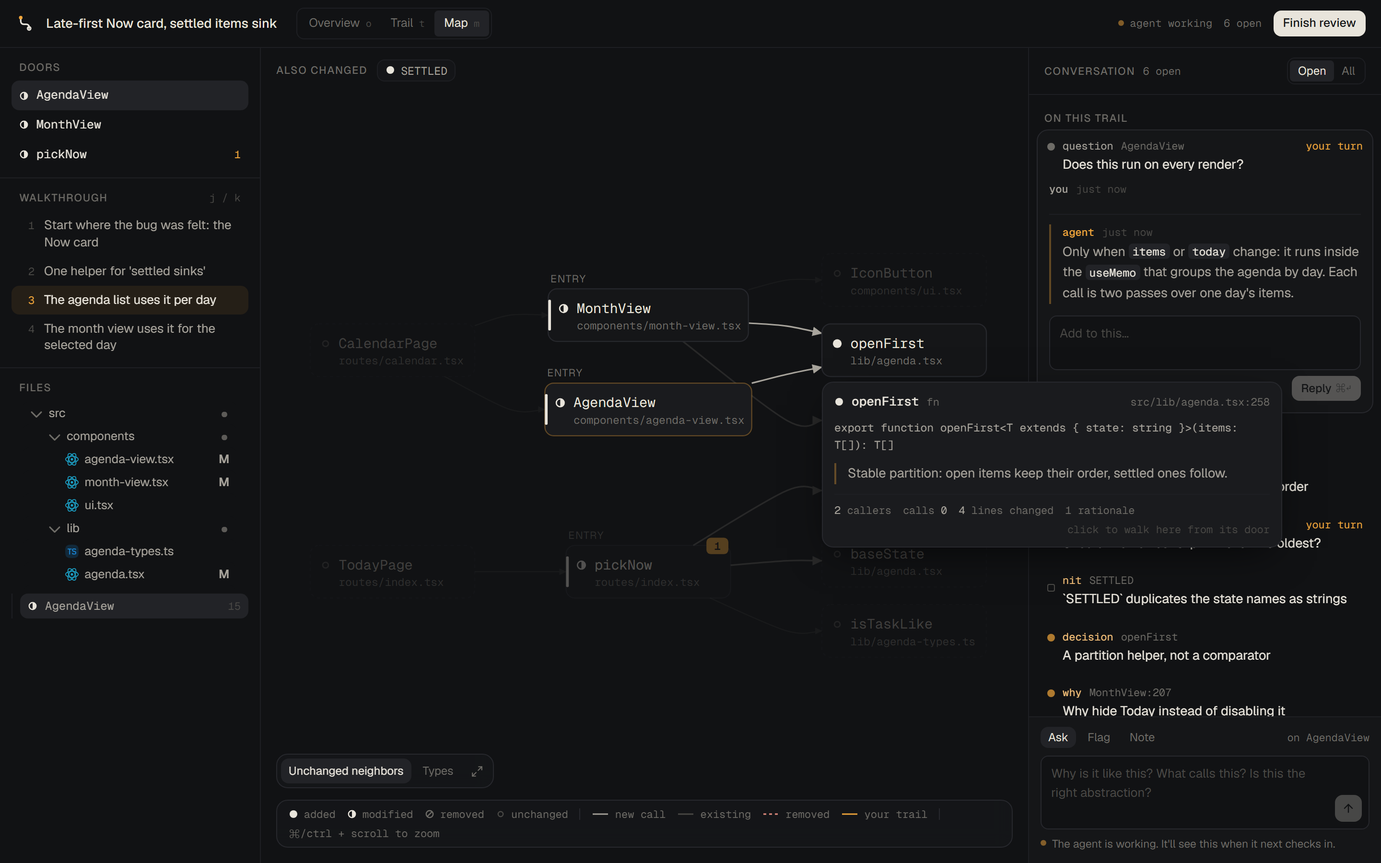
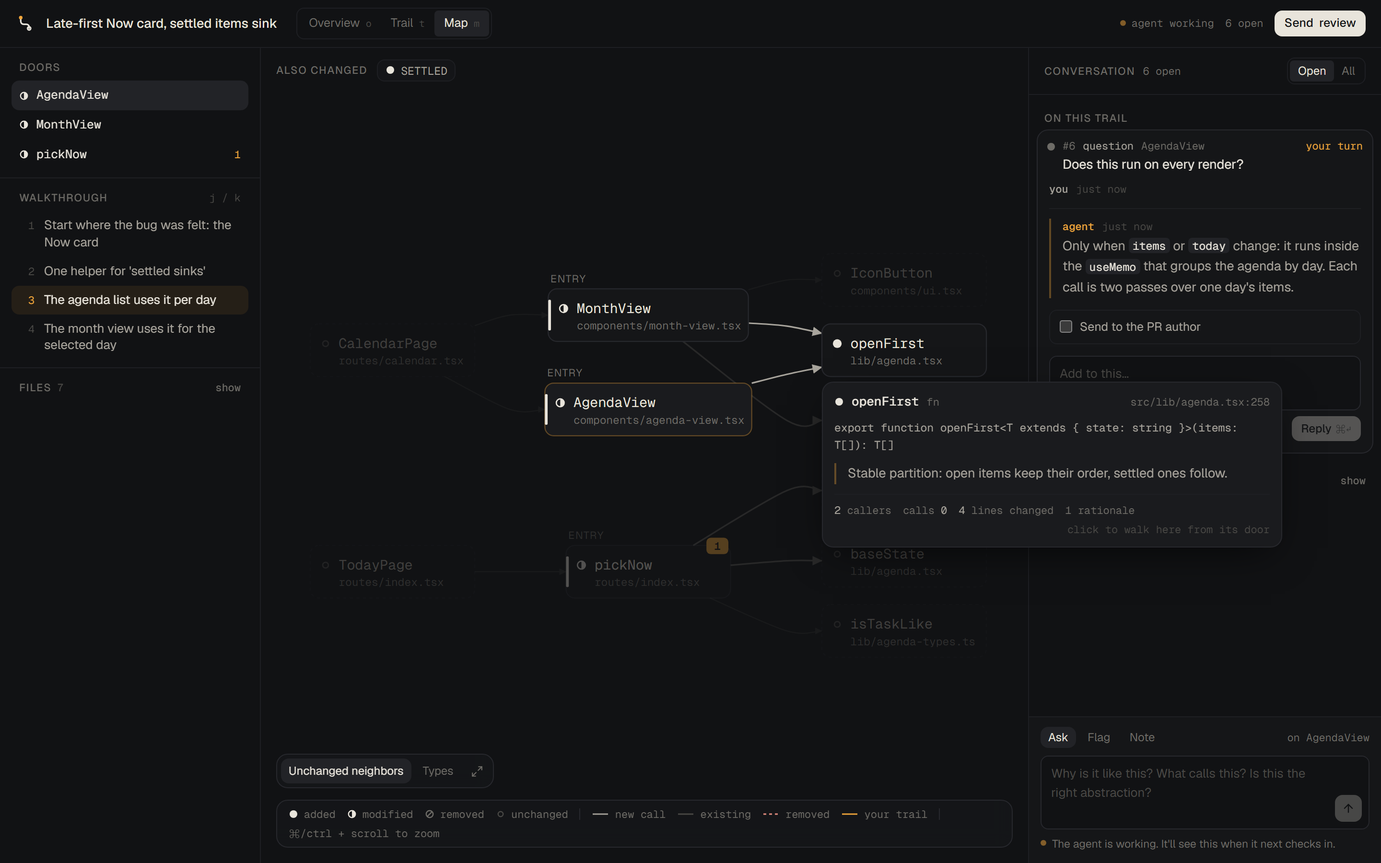
Skill and README for the full review loop; demo ends on Send review
SKILL.md now carries the review discipline (understand first, a concrete case
for every finding, smallest fix), numbered and structured findings, how to
draft what the author reads, and the rule that the agent never sends on its
own. Thread numbers work with go, reply, resolve and outgoing. Verified
end to end: a review with an inline comment posted to a throwaway PR.

diff --git a/server/actions.ts b/server/actions.ts
@@ -499,6 +499,7 @@ defineAction({
   input: NavigateCommand,
   run(ctx, input) {
     if (input.symbolId) input.symbolId = requireSymbol(ctx, input.symbolId).id;
+    if (input.noteId) input.noteId = requireNote(ctx, input.noteId).id;
     const cmd = { ...input, nonce: newId("nav") };
     ctx.store.emit(ctx.reviewId, "navigate", ctx.actor, cmd);
     return cmd;

diff --git a/SKILL.md b/SKILL.md
@@ -1,45 +1,60 @@
 ---
 name: downstream
-description: Open a shared, live review surface for a code change or an area of code, then walk the user through it and discuss it there. Use when the user asks to review a PR, branch or diff ("help me review this", "review PR 42", "walk me through this change"), or to explain how existing code works ("teach me how auth works", "give me a tour of src/sync").
+description: Open a shared, live review surface for a code change or an area of code, walk the user through it, discuss it with them there, and (for pull requests) send the review you arrive at together. Use when the user asks to review a PR, branch or diff ("help me review this", "review PR 42", "walk me through this change"), or to explain how existing code works ("teach me how auth works", "give me a tour of src/sync"). TypeScript, JavaScript and Python are analyzed; other languages are mapped by hand.
 ---
 
 # Downstream
 
-Downstream turns a change into something a person can read the way the code runs: start at an entry point ("a door"), follow each call downstream, and see why each piece is the way it is. You (the agent) author that walkthrough and review it; the user reads it in a browser and talks back in the margin. You both read and write the same review through the same actions, and you hear the user through `downstream wait`.
+Downstream turns a change into something a person can read the way the code runs: start at an entry point ("a door"), follow each call downstream, and see why each piece is the way it is. You (the agent) map the change, write the walkthrough, and review it; the user reads it in a browser and talks to you in the margin; together you arrive at a review, and when the user says so, it goes to the pull request. You both read and write the same review through the same actions, and you hear the user through `downstream wait`.
 
 Run the CLI as `node "${CLAUDE_SKILL_DIR}/bin/downstream.mjs" <command>`. Below it is written `downstream <command>`. Run it from inside the repository being reviewed. The first run installs dependencies and builds the UI (about a minute).
 
 ## The loop
 
-1. **Open** the review. The analyzer diffs the change, finds changed symbols, resolves calls through the TypeScript compiler, and guesses entry points.
+1. **Open** the review.
    ```bash
+   downstream open --pr 42              # someone's pull request (uses gh; no checkout needed)
    downstream open                      # working tree (incl. uncommitted) vs main
    downstream open --base main --head feature-x
-   downstream open --pr 42              # uses gh; reviews without checking out
    downstream open --teach src/sync     # explain existing code instead of a diff
    ```
    It prints the URL and opens the browser. Tell the user the URL in one line, then keep working; the UI fills in live as you write.
 
-2. **Read** before you write. `downstream show` prints the map: entry points, every symbol with its status, flow edges (`*` = new in this change), threads. `downstream code <symbol>` prints a symbol's code with real line numbers and `+`/`-` marks, plus who calls it and what it calls. Read beyond the map too (tests, callers, the PR description, `git log`) wherever you need to understand intent. Symbol ids look like `src/lib/agenda.tsx#openFirst`; most commands also accept a unique bare name.
+2. **Understand** before you judge. `downstream show` prints the map: doors, every symbol with its status, flow edges (`*` = new in this change, `x` = removed), tests, threads. `downstream code <symbol>` prints a symbol's code with real line numbers and `+`/`-` marks, plus who calls it and what it calls. Then read past the map: the PR description, the callers of every changed function, the tests, where data comes in, what is stored, what goes out. A change can break code it doesn't touch: when a signature, return value or behavior changes, check every caller. Find the expected load (README, deploy config) and judge scale against it.
 
-3. **Author** the walkthrough in one batch: write a JSON file and `downstream apply plan.json` (shape below). You can apply more than once; later calls add to or replace what's there (steps are replaced as a whole, notes are added).
+3. **Write** the walkthrough and your review in one batch: a JSON file and `downstream apply plan.json` (shape below). You can apply again; steps are replaced as a whole, notes are added, `updates` edit existing threads.
 
-4. **Converse.** Run `downstream wait`. It blocks until the user replies, asks, flags, resolves, or ends the session, then prints what happened with the exact command to answer. While it blocks, the UI shows you as *listening*. Answer, then `wait` again. Keep going until `wait` reports the session ended, or the user tells you in chat they're done.
+4. **Converse.** Run `downstream wait`. It blocks until the user replies, asks, flags, edits, resolves or ends the session, then prints what happened with the exact command to answer (and their selected code, when they asked about a selection). While it blocks, the UI shows you as *listening*. Answer, then `wait` again.
+
+5. **Arrive at the review.** When the conversation settles, draft what the author will read (see *Sending the review*). The user checks it in **Send review** and sends it, or tells you to.
+
+## What to look for
+
+Review like the senior developer who gets paged when it breaks. In order: correct, safe, holds under the expected load, tested, fast, lean.
+
+- **bug**: wrong result, crash, missed edge case (empty, zero, last item, rounding, time zones), a caller broken by the change, a fix in one caller while the shared function stays broken.
+- **risk**: security (injection, secrets, unchecked user input), data loss (swallowed errors, writes in the wrong order, no transaction), migrations that change what existing rows mean.
+- **scale**: fine for one user, wrong for many: check-then-write races, a query per item, unbounded growth, per-process state that must be shared.
+- **test**: risky new logic (a branch, a parser, money, security, data writes, a bug fix) with no test that fails when it breaks. One good test, not coverage.
+- **speed**: big slowdowns are findings; small wins are nice-to-haves.
+- **lean**: code that shouldn't exist (dead, speculative, an abstraction with one implementation), a helper the repo already has (name the path), a dependency for a few lines, near-copies that must change together.
+
+Every finding needs a concrete case: *this input or situation leads to this wrong result*. No case, no finding. Re-read the lines before you report: confirm the caller exists, the value can really be empty, the code really is unused. Propose the smallest fix that works; prefer fixes that delete code. No style taste, no "consider", no vague worries. Three real findings beat ten weak ones.
 
 ## What a good walkthrough contains
 
-Write for a reviewer who has not seen the code. Name things; never say "it" when you can say `openFirst`. Wrap symbol names in backticks: in the UI they become links that show the code on hover and open it on click.
+Write for a reader who has not seen the code: short sentences, everyday words, explain a term the first time. Name things; never say "it" when you can say `openFirst`. Wrap symbol names in backticks: in the UI they become links that show the code on hover and open it on click.
 
-- **summary** (markdown, 3 to 8 sentences or a short list): what changed in behavior, in the user's terms, then where the risk is. Not a file list.
-- **symbols**: a one-line purpose (`summary`) for every changed symbol and any unchanged one that matters to the flow. It answers "what is this for?", not "what does this do line by line". Fix `entry` flags: a door is where control enters the change (a route, a CLI command, an exported function called from unchanged code, a component a page renders). Unmark helpers the analyzer guessed wrong.
-- **steps** (usually 3 to 8): the order to read the change, door first, then downstream along real calls. Each step anchors to a symbol (`symbolId`) and optionally `lines`, and its `body` says what happens at this point in the flow and why it's built this way. Don't repeat the code; point at the line that matters.
-- **notes**, each anchored to a symbol and, when it's about specific lines, `lines` (new-side line numbers; `side: "old"` for removed code):
-  - `why`: the reason behind anything that would make a careful reader stop. Write one wherever you'd expect "why is it like this?".
-  - `decision`: an abstraction or interface choice, with the `alternatives` that lost and their tradeoffs. Anchor decisions about a new type, interface or class to that symbol: the overview lists every shape the change introduces with its signature and the decision beside it, so the user judges contracts before code. Ask yourself for every new type, function boundary, dependency or data shape: why this shape and not the obvious other one? Is this the right layer? If the choice looks wrong, say so in a finding instead.
-  - `finding`: a real problem. `severity`: `blocker` (wrong behavior, data loss, security, will break), `concern` (likely bug, missing case, misleading code or docs, a worse abstraction than an available one), `nit` (style or small clarity). Give the failure scenario. Add a `suggestion` (`{lines, code}`) when the fix is concrete. Don't pad: three real findings beat ten weak ones.
-  - `question`: you need the author's intent to judge something. The user answers in the margin.
-- **edges**: add relationships the analyzer can't see (events, queues, HTTP between services, dynamic dispatch, config wiring) with a `label`. Remove noise with `removeEdges`.
-- **addSymbols**: for languages other than TS/JS (they arrive as one `module` symbol per file), add the real functions with `file`, `name`, `lines`, `status`, then connect them with `edges`. In TS/JS you can pass just `line` and the declaration around it is found for you.
+- **summary** (3 to 8 sentences or a short list): what this change does, in behavior, then where the risk is. Not a file list.
+- **symbols**: a one-line purpose (`summary`) for every changed symbol and any unchanged one that matters to the flow ("what is this for?"). Fix `entry` flags: a door is where control enters the change (a route, a job, a CLI command, an exported function called from unchanged code, a component a page renders). Unmark what the analyzer guessed wrong.
+- **steps** (usually 3 to 8): the order to read the change, door first, then downstream along real calls. Each step anchors to a symbol (`symbolId`) and usually `lines`; its `body` says what happens at this point in the flow and why it's built this way. Point at the line that matters; don't repeat the code.
+- **notes**, each anchored to a symbol and, when about specific lines, `lines` (new-side numbers; `side: "old"` for removed code). Every note gets a number (`#1`, `#2`, …) the user can refer to; commands accept `3` or `#3` wherever they take a thread.
+  - `finding`: `severity` is `blocker` (shown as **must fix**: bug, security, data loss, breaks at the expected load), `concern` (**should fix**: risky code without a test, real slowness, duplication, code that shouldn't exist) or `nit` (**nice to have**). Set `category` (bug, risk, scale, test, speed, lean). `title` names the problem; `body` is the problem with its concrete case; `fix` is the smallest fix; `impact` says what happens if we ship it anyway; `suggestion` (`{lines, code}`) when the fix is concrete. A suggestion whose lines match the note's lines becomes a GitHub suggestion the author can apply in one click.
+  - `decision`: an abstraction or interface choice, with the `alternatives` that lost and their tradeoffs. For every new type, function boundary, dependency or data shape ask: why this shape and not the obvious other one? Is this the right layer? Anchor it to the shape's symbol; the overview shows each shape with its decision.
+  - `why`: the reason behind anything that would make a careful reader stop.
+  - `question`: you need the author's (or user's) intent to judge something.
+- **edges**: relationships the analyzer can't see (events, queues, HTTP between services, dynamic dispatch, DI wiring), with a `label`. `removeEdges` for noise.
+- **addSymbols**: for other languages (they arrive as one `module` symbol per file) add the real functions with `file`, `name`, `lines`, `status`, then connect them with `edges`. In TS/JS/Python you can pass just `line` and the declaration around it is found.
 
 Set `"status": "ready"` when the walkthrough is complete.
 
@@ -47,58 +62,80 @@ Set `"status": "ready"` when the walkthrough is complete.
 
 ```json
 {
-  "title": "Late-first Now card, settled items sink",
-  "summary": "The Now card (`pickNow`) used to prefer…\n\nThe risky part is…",
+  "summary": "Price tracking stops being something you switch on…\n\nThe risk is in the migration: …",
   "status": "ready",
   "symbols": [
-    { "id": "src/routes/index.tsx#pickNow", "summary": "Chooses the one task the Today screen shows in the Now card." },
-    { "id": "src/lib/agenda.tsx#SETTLED", "entry": false }
+    { "id": "backend/app/features/price_tracking/service.py#apply_price_observation", "summary": "Records a fetched price; now also turns tracking on." },
+    { "id": "backend/app/features/wishlist_item/models.py#WishlistItem", "entry": false }
   ],
   "steps": [
-    { "title": "Start where the bug was felt: the Now card", "symbolId": "src/routes/index.tsx#pickNow", "lines": { "start": 41, "end": 46 },
-      "body": "`TodayPage` calls `pickNow` with today's agenda. Late items are now checked first…" }
+    { "title": "Tracking turns on when a check succeeds", "symbolId": "backend/app/features/price_tracking/service.py#apply_price_observation",
+      "lines": { "start": 267, "end": 271 }, "body": "A price we could read proves the page is trackable, so…" }
   ],
   "notes": [
-    { "kind": "finding", "severity": "concern", "symbolId": "src/routes/index.tsx#pickNow", "lines": { "start": 38, "end": 38 },
-      "title": "Doc comment still describes the old order", "body": "Line 38 says…",
-      "suggestion": { "lines": { "start": 38, "end": 38 }, "code": "/** … */" } },
-    { "kind": "decision", "symbolId": "src/lib/agenda.tsx#openFirst", "title": "A partition helper, not a comparator", "body": "…",
-      "alternatives": [ { "option": "Sort with a comparator", "tradeoff": "One pass, but order then rests on sort stability." } ] },
-    { "kind": "question", "symbolId": "src/routes/index.tsx#pickNow", "lines": { "start": 42, "end": 43 }, "title": "Should the newest slip win?", "body": "…" }
+    { "kind": "finding", "severity": "blocker", "category": "risk", "symbolId": "backend/app/alembic/versions/f1a2_add_flag.py#upgrade",
+      "lines": { "start": 19, "end": 27 }, "title": "Everyone who turned tracking off is opted back in",
+      "body": "The new column defaults to false for every existing row, so an item whose owner switched tracking off…",
+      "fix": "Backfill in upgrade(): items that had a verified price and are off without a pause were turned off by their owner.",
+      "impact": "Owners who opted out start getting price notifications again the day this deploys.",
+      "suggestion": { "lines": { "start": 19, "end": 27 }, "code": "    op.add_column(…)\n    op.execute(\"UPDATE …\")" } },
+    { "kind": "decision", "symbolId": "backend/app/background/price_check.py#check_tracked_prices", "title": "Group by store instead of a global rate limiter",
+      "body": "…", "alternatives": [ { "option": "One global queue with a smaller delay", "tradeoff": "Every site sees faster requests." } ] },
+    { "kind": "question", "symbolId": "backend/app/background/price_check.py#check_tracked_prices", "title": "Is one scheduler process the expected deployment?", "body": "…" }
   ],
-  "edges": [ { "from": "src/server/jobs.ts#enqueue", "to": "src/worker/run.ts#handle", "kind": "calls", "label": "via the jobs queue" } ],
-  "removeEdges": [],
-  "addSymbols": []
+  "updates": [ { "noteId": "2", "outgoing": { "include": true, "body": "…" } } ],
+  "outgoingBody": "…",
+  "edges": [ { "from": "src/server/jobs.ts#enqueue", "to": "src/worker/run.ts#handle", "kind": "calls", "label": "via the jobs queue" } ]
 }
 ```
+
+Two full examples from real reviews live in `examples/` (`kumbara-equity-grants.json` for TypeScript, `wishlist-auto-tracking.json` for Python).
 
 ## Talking in the margin
 
 | The user… | You run |
 |---|---|
 | asks a question (`wait` shows `The user asked [n_x]…` with their selected code) | `downstream reply n_x "…"` |
-| replies in a thread | `downstream reply <id> "…"`, or `downstream resolve <id> "why"` if it's settled |
-| pushes back on a decision | answer honestly; if they're right, say so, and offer the change |
-| flags something | look at it; reply with what you found; fix it if they ask |
+| replies in a thread | `downstream reply 3 "…"`, or `downstream resolve 3 "why"` when it's settled |
+| pushes back on a finding or decision | answer honestly. If they're right, say so and `resolve` or `dismiss` it with the reason; if the finding changes, `downstream do note.update '{"noteId":"3","body":"…"}'` |
 | says "this", "here" | `downstream screen` shows their view, open frames and selected lines |
-| asks you to fix a finding | edit the code, `downstream reanalyze`, then `downstream resolve <id> "Fixed: …"` |
-| gives a verdict or ends the session | acknowledge in chat; `wait` returns `The user ended the review session.` |
+| says "fix 2 and 5" (their own code) | edit the code, `downstream reanalyze`, then `downstream resolve 2 "Fixed: …"` |
+| edits a thread's outgoing wording | `wait` reports it; leave their wording alone unless asked |
+| gives a verdict, sends, or ends the session | acknowledge in chat |
 
-- `downstream go <symbol> [--lines a-b]`, `go step 3`, `go thread <id>`, `go map` moves the user's view. Use it when your answer is "look at this".
-- `downstream note <kind> <symbol> --title "…" [--body "…"] [--severity …] [--lines a-b]` adds one thread without a full apply.
+- `downstream go <symbol> [--lines a-b]`, `go step 3`, `go thread 3`, `go map` moves the user's view. Use it when your answer is "look at this".
+- `downstream note <kind> <symbol> --title "…" [--body] [--severity] [--category] [--fix] [--impact] [--lines a-b]` adds one thread without a full apply.
 - `downstream ask "…" --symbol s` asks the user something.
-- `downstream verdict approve|changes|comment "…"` records your overall verdict.
 - `downstream sql "select * from v_notes where status = 'open'"` reads anything (read-only connection; views `v_symbols`, `v_edges`, `v_notes`, `v_replies`).
-- `downstream actions` lists every action with its input schema; `downstream do <action> '<json>'` calls one directly. The browser uses the same actions, so anything the user can do, you can do.
+- `downstream actions` lists every action with its input schema; `downstream do <action> '<json>'` calls one. The browser uses the same actions, so anything the user can do, you can do.
 
-Replies are markdown and are shown in your voice (amber) in the margin. Keep them short and specific: the claim, the evidence (a line, a caller), what you'd do.
+Replies are markdown, shown in your voice in the margin. Keep them short: the claim, the evidence (a line, a caller), what you'd do.
+
+## Sending the review
+
+The conversation in the margin is between you and the user and never leaves. What the PR author reads is a separate, explicit draft:
+
+- **Which threads go out.** Open findings go out by default; everything else stays private. Change that per thread: `downstream outgoing 3 "…"` (send, in these words) or `downstream outgoing 4 --exclude` (keep private). Findings the user dismissed or resolved in conversation should not go out.
+- **The words.** Without outgoing wording, a finding goes out as written (severity, title, problem, fix, suggestion, impact). Reword when the conversation changed the finding, or when it should read as a question to the author. Write to the author, not to the user: no references to your conversation, and no `#3` thread numbers (on GitHub those link to issues and pull requests); name the problem instead.
+- **The body.** `outgoingBody` (via `apply` or `downstream do review.update '{"outgoingBody":"…"}'`): what the change does in a sentence or two, what must change before merging, and anything you could not check. Plain and kind.
+- **The verdict.** `downstream verdict changes|approve|comment "…"`. GitHub doesn't allow approving or requesting changes on your own pull request; use comment there.
+- `downstream draft` prints exactly what would be sent: the event, the body, each inline comment, and the comments that fall outside the diff (GitHub only takes inline comments on changed lines and their context, so those go into the body).
+
+Sending is public and permanent. **Never run `downstream send` on your own initiative.** The user sends from the Send review panel, or tells you to in chat ("send it"); then run `downstream draft`, show them the verdict and the number of comments in one line, and send only after they confirm. Only pull request reviews (`open --pr`) can be sent; for anything else the panel copies the review as markdown.
+
+## Languages
+
+- **TypeScript / JavaScript**: the compiler resolves calls, renders, type uses and callers; hover shows real types and docs. Inner functions of large containers (Effect service layers, app builders) are lifted into their own symbols, and a service's `return { createGrant }` is followed back to the function.
+- **Python**: declarations come from indentation (decorators and docstrings included); FastAPI/Flask/Celery-style decorators mark routes and jobs as doors. Calls are resolved through each file's imports, `self.`/`cls.`, fresh instances (`Service().create()`), and unique method names; callers are found across the repo; hover shows the signature and docstring. There is no type checker: when a call goes through an injected object the analyzer can't see, add the edge yourself.
+- **Tests** are marked as tests: never doors, shown on a frame as *tested by*, hidden on the map unless toggled.
 
 ## Teaching mode
 
-`downstream open --teach <paths…>` maps existing code instead of a diff: every declaration is a symbol, edges are the calls between them, entries are exported functions and routes nothing else in the set calls. The job is the same minus findings unless asked: a summary of what this part of the system is for, purposes for the important symbols, a walkthrough that follows one real request or operation end to end, and `why`/`decision` notes on the shapes a newcomer would question.
+`downstream open --teach <paths…>` maps existing code instead of a diff: every declaration is a symbol, edges are the calls between them, doors are exported functions and routes nothing else in the set calls. The job is the same minus findings unless asked: what this part of the system is for, purposes for the important symbols, a walkthrough that follows one real request or operation end to end, and `why`/`decision` notes on the shapes a newcomer would question. Large maps open scoped to your walkthrough.
 
 ## Housekeeping
 
-- State lives in `<repo>/.downstream/` (SQLite), which is added to `.git/info/exclude`. One server per repository; `downstream status`, `downstream url`, `downstream stop`.
+- State lives in `<repo>/.downstream/` (SQLite), added to `.git/info/exclude`. One server per repository; `downstream status`, `downstream url`, `downstream stop`. An updated skill restarts the server and rebuilds the UI on the next `open`.
+- `downstream reanalyze` re-reads the code after edits and keeps summaries, threads and the walkthrough.
 - Reopening (`downstream open`) starts a fresh review and makes it current; old ones stay in the database.
 - If `open` fails, `.downstream/server.log` has the server's output.

diff --git a/README.md b/README.md
@@ -2,7 +2,7 @@
 
 Code review that reads a change the way it runs.
 
-Ask your coding agent to review a pull request, or to explain part of the codebase, and Downstream opens next to it: the change laid out from its entry points, each call one click deeper, the agent's reasons pinned to the lines they're about, and a margin where you talk it through with the agent while it listens.
+Ask your coding agent to review a pull request, or to explain part of the codebase, and Downstream opens next to it: the change laid out from its entry points, each call one click deeper, the agent's reasons pinned to the lines they're about, and a margin where you talk it through with the agent while it listens. When you agree, the review you arrived at goes to the pull request: your verdict, your words, inline comments the author can apply in one click.
 
 ![A review in Downstream: the agent's walkthrough lands live, a type hover, following a call, a question answered in the margin, the flow map](docs/demo.gif)
 
@@ -16,6 +16,7 @@ Downstream gives the change that shape:
 - **Trail.** Open a door and its code appears scoped to just that symbol, numbered like the real file. Click a call and the callee opens below it; the frame above folds to the one line that made the call. You read down the stack the way the code runs.
 - **Margin.** The agent writes `why` notes where a careful reader would stop, `decision` notes with the alternatives that lost, and findings with a severity and a failure scenario. You select lines and ask. It answers in the margin while you keep reading.
 - **Map.** The whole change as a system, left to right from its doors: what's new, what's changed, which calls are new, and which existing code reaches in.
+- **Send.** Findings are numbered (*fix 2 and 5*) and carry the problem, the smallest fix and what happens if you ship anyway. Each thread decides whether it reaches the author and in what words; the conversation stays private. Send review shows the exact review GitHub will get and posts it only when you confirm.
 
 Hover anything in the code for its real TypeScript type and docs. Hover a symbol on the map or in a note for its purpose, callers, calls and open findings.
 
@@ -23,6 +24,8 @@ Hover anything in the code for its real TypeScript type and docs. Hover a symbol
 |---|---|
 | ![The overview: the agent's summary, the doors into the change, findings and choices](docs/overview.png) | ![The trail: a step of the walkthrough, a symbol's code with pinned findings and a live type hover](docs/trail.png) |
 | ![A question in the margin, answered by the agent](docs/conversation.png) | ![The flow map, laid out from the change's entry points](docs/map.png) |
+
+![Send review: the verdict, the words for the author, and each inline comment exactly as GitHub will get it](docs/send.png)
 
 ## How it works with an agent
 
@@ -34,8 +37,10 @@ downstream show                  # the agent reads the map: doors, symbols, edge
 downstream code pickNow          # and the code, numbered, with +/- marks and callers
 downstream apply plan.json       # it writes the walkthrough: summary, steps, why, decisions, findings
 downstream wait                  # then listens; returns when you ask, reply, resolve or finish
-downstream reply n_x2 "…"        # and answers in the margin
+downstream reply 2 "…"           # and answers in the margin
 downstream go openFirst          # or moves your view to what it's talking about
+downstream outgoing 2 "…"        # words a finding for the author (or --exclude keeps it private)
+downstream draft                 # the review exactly as it would be sent; you press Send
 ```
 
 `downstream open --teach src/sync` does the same for existing code: no diff, a tour of how one request moves through that part of the system.
@@ -65,7 +70,7 @@ Then ask Claude Code to review something: *"help me review this branch"*, *"revi
 
 Requires Node 22.13 or newer and git. `--pr` uses the GitHub CLI.
 
-**Languages.** TypeScript and JavaScript get the full treatment: symbols, call resolution, callers, hovers. Other languages arrive as one symbol per changed file; the agent splits them into real functions and draws the edges (`addSymbols`, `edges` in `apply`).
+**Languages.** TypeScript and JavaScript go through the compiler: symbols, call resolution, callers, real types on hover. Python is read from indentation and imports: functions, classes and methods with decorators and docstrings, FastAPI/Flask routes as doors, calls through imports and `self`, callers across the repo, signatures and docstrings on hover. Tests in either are marked as tests. Other languages arrive as one symbol per changed file; the agent splits them into real functions and draws the edges (`addSymbols`, `edges` in `apply`).
 
 ## Development
 
@@ -83,6 +88,8 @@ DOWNSTREAM_API=http://127.0.0.1:4317 npm run dev:web   # UI with hot reload agai
 | `domain/model.ts` | The review model, shared by server, CLI and browser |
 | `server/analyze/` | Git sides, TypeScript declarations, the flow graph |
 | `server/actions.ts` | Every action, defined once |
+| `server/publish.ts` | The review as the PR author sees it, and sending it |
+| `server/analyze/py.ts` | Python declarations, imports and calls |
 | `server/main.ts` | HTTP, SSE, `wait` |
 | `cli/downstream.ts` | The agent's CLI |
 | `web/src/` | The review surface (React, Tailwind, [Pierre diffs](https://diffs.com) and [trees](https://www.npmjs.com/package/@pierre/trees), dagre) |
